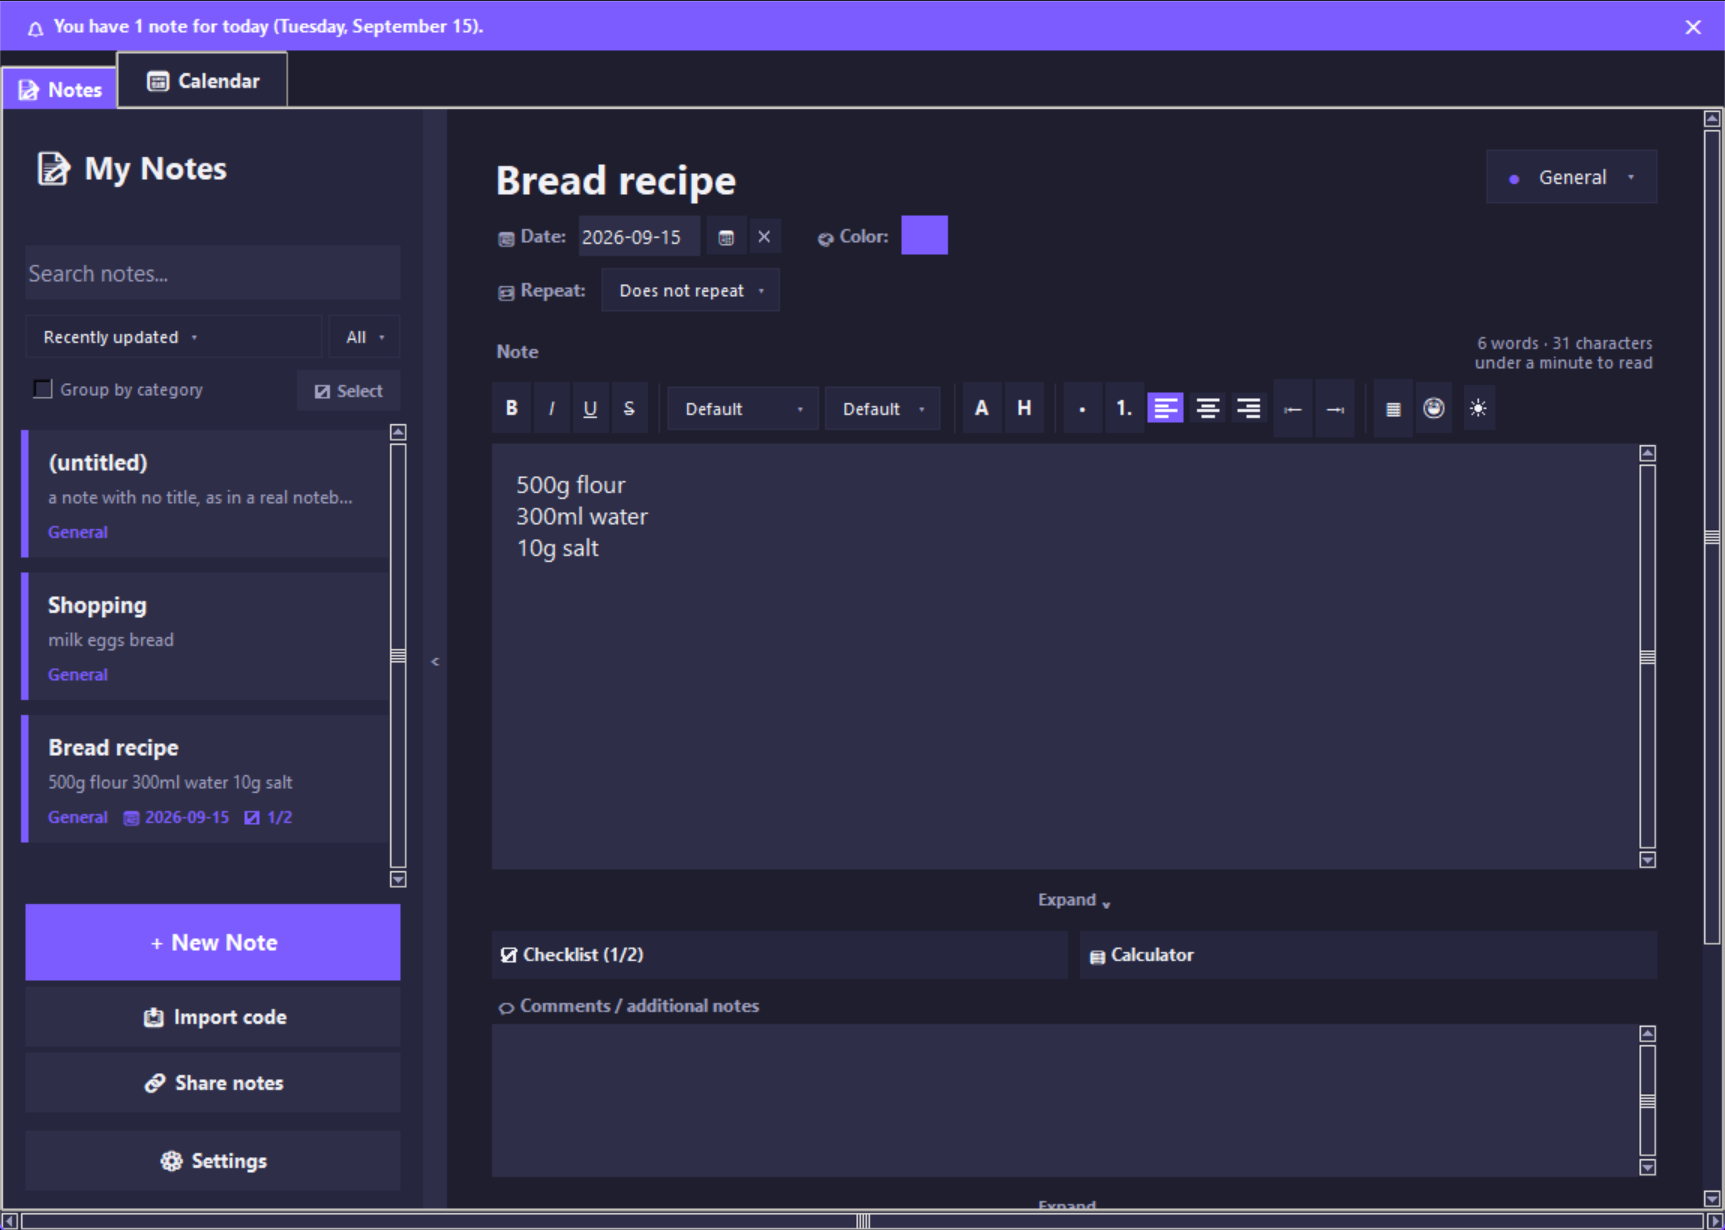
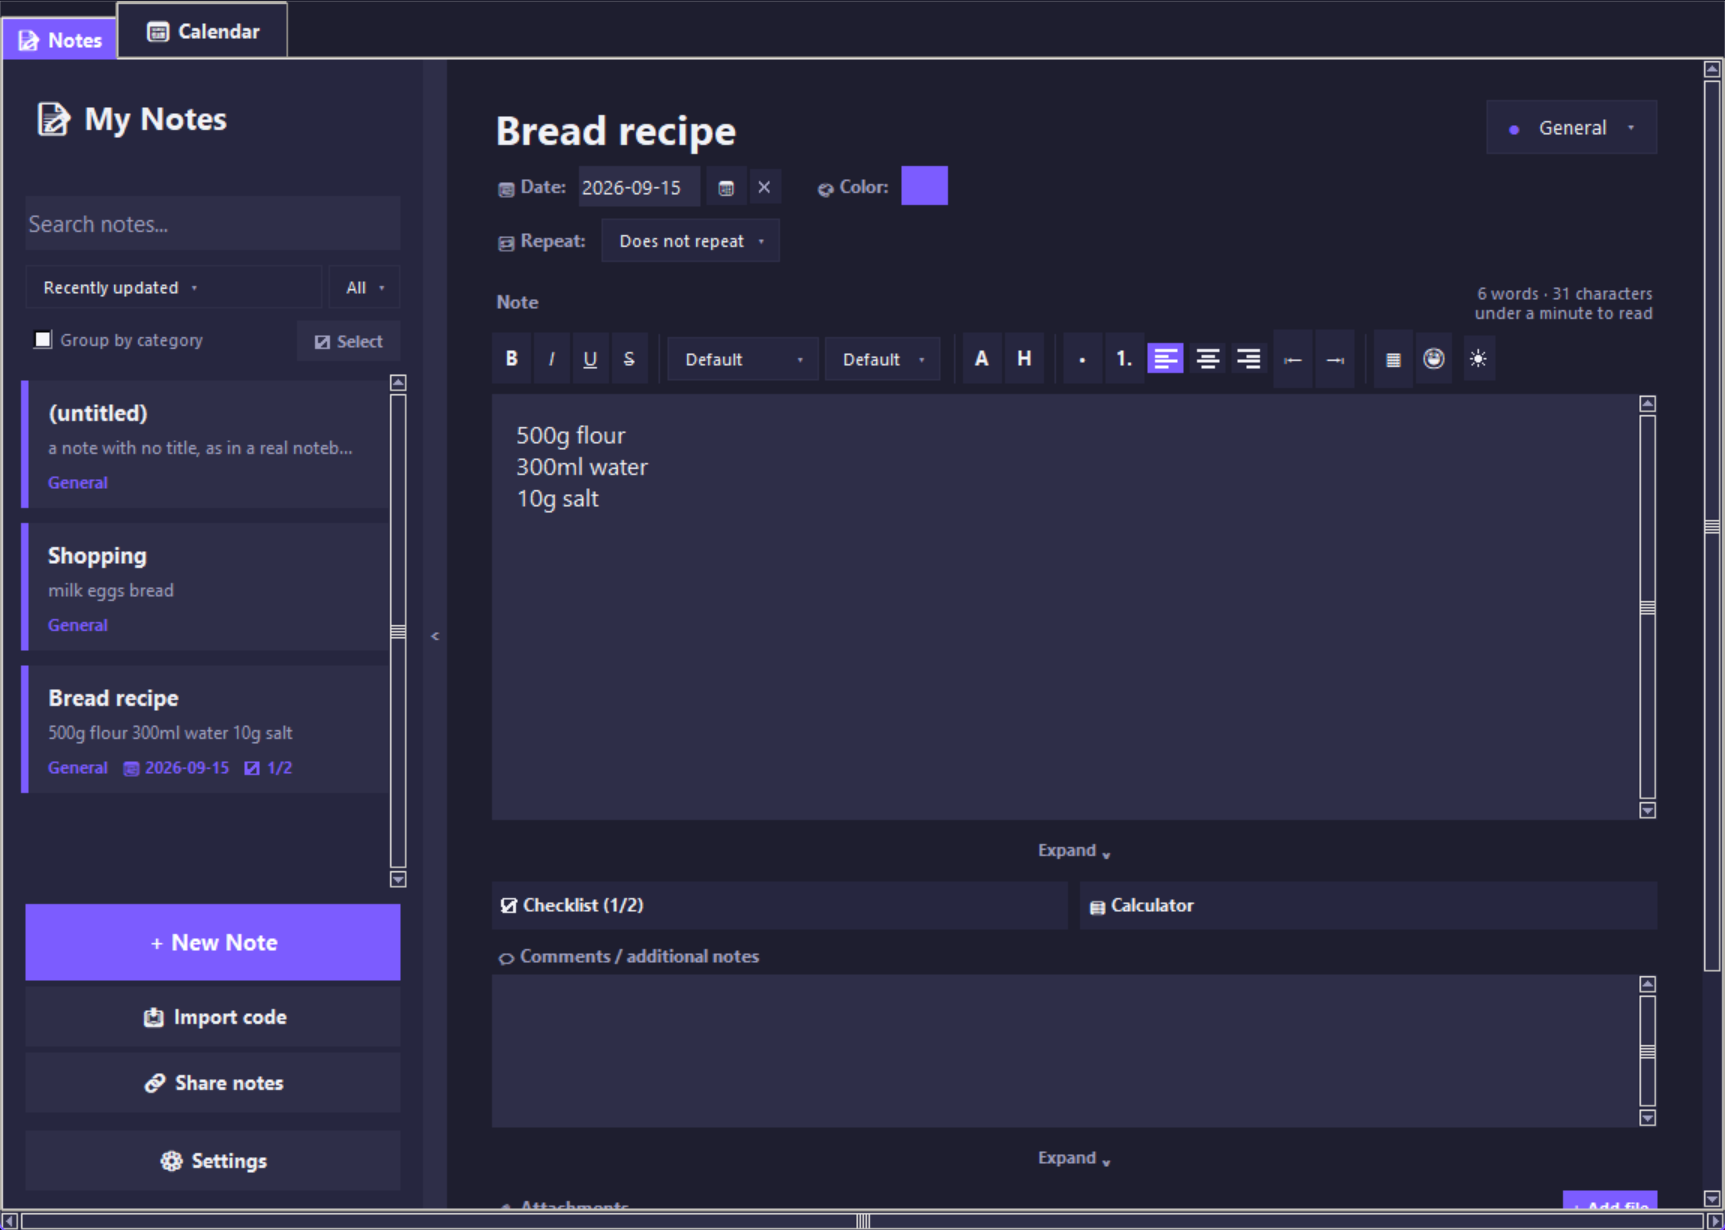
test: photograph the five screens the seven fixes changed
Five of 0.76.192's seven changes were about how something LOOKS, and not
one of the six stored screens contained any of them: the search box is
always empty in them, the template editor is never open, and no popup or
Share panel is ever on screen. So the mechanical checks passed and nobody
had looked.

FIVE NEW SCENES: the search box with a query in it (the X), the Share
panel with a code (the X and the shared sentence), the template editor
(the drawn bin and the ASCII plus, three changes in one picture), and
both colour pickers side by side (the highlight one's new title, and the
text one as its control).

WHAT LOOKING FOUND, none of which a check could have said:

1. THE SIX STORED REFERENCES WERE UNUSABLE, and not because of any code.
   They were photographed on 2026-09-15, the one day the seeded note was
   due, so they carry a "You have 1 note for today" bar the fresh shots do
   not. The window does not shift without it, it REFLOWS -- the bar's 47px
   are absorbed by the note list -- so every screen read as 15-23% changed
   with nothing wrong. The shooter now hides that bar, so what these
   pictures show no longer depends on the calendar, and all eleven are
   re-taken.

2. THE SEVEN CHANGED NOTHING THEY WERE NOT MEANT TO. Answered properly,
   by photographing 3f34218 -- the commit before them -- today, with the
   same bar suppressed, and comparing like with like: 02-editor,
   03-calendar, 04-settings-trash, 05-settings-categories and
[…]

diff --git a/qa/story_look.py b/qa/story_look.py
@@ -21,6 +21,14 @@ runs for reasons nobody controls, so a tiny difference is noise and is
 reported as such. It answers one question honestly: did a screen change
 shape while we were not looking?
 
+HOW SMALL A THING IT CANNOT SEE, measured rather than guessed. The
+comparison reduces each picture to a 40x40 grid, so one cell is about
+1/1600 of the screen -- roughly 43x31 pixels at the size these are taken.
+A control smaller than that can appear or vanish and this tool will report
+"same". Measured: adding the search box's clear button moved 0.0%. So a
+green run means no screen changed SHAPE; it does not mean no button came
+or went. For a small control, look at the picture.
+
     py qa/story_look.py            # compare against the stored shots
     py qa/story_look.py --accept   # bless what is on screen now
 
@@ -68,6 +76,65 @@ app.notebook.select(app.TAB_NOTES)
 app.set_theme(NO.LIGHT_THEMES[0])
 app.refresh_note_list()
 """),
+    # ---- The five scenes below were added for 0.76.192, because five of
+    # that release's seven changes were about how something LOOKS and none
+    # of the six scenes above contains any of them: the search box is
+    # always empty here, the template editor is never open, and no popup
+    # or Share panel is ever on screen. A check reading a widget's
+    # properties cannot see that a new button crowds the text beside it.
+    ("07-search-with-a-query", """
+app.hide_settings_page()
+app.notebook.select(app.TAB_NOTES)
+app.set_theme('Midnight')
+app.search_var.set('bread')
+app.refresh_note_list()
+"""),
+    ("08-share-panel-with-a-code", """
+app.search_var.set('')
+app.refresh_note_list()
+app.toggle_share_panel()
+# The EXISTING vars are set rather than replaced: the checkbuttons on screen
+# are bound to the ones the panel built, so a fresh BooleanVar would generate
+# a code for notes whose boxes still looked unticked -- a picture that lies
+# about what was asked for.
+app._share_vars[app.notes[0]['id']].set(True)
+app._share_vars[app.notes[1]['id']].set(True)
+app.notes[0]['attachments'] = [{'filename': 'f.txt', 'stored_as': 'x_f.txt'}]
+app._generate_inline_share()
+"""),
+    ("09-template-editor", """
+app.notes[0].pop('attachments', None)
+app.toggle_share_panel()
+app.hide_settings_page()
+app.templates.append(NO.normalize_template({
+    'name': 'Weekly review', 'title': 'Week of', 'body': 'What went well',
+    'category': 'General',
+    'checklist': [{'text': 'read last week', 'done': False},
+                  {'text': 'pick three things', 'done': False}]}))
+app.show_settings_page()
+# update() between the two, and it is load-bearing: toggle_settings_panel
+# unpacks the section that was showing by asking winfo_ismapped(), which Tk
+# answers False until it has processed the geometry. Called back to back, the
+# previous section is still packed and unmapped, the unpack loop skips it, and
+# the picture comes out with two sections stacked -- Recently deleted above a
+# nav reading Templates, which is what the first version of this shot showed.
+app.update()
+app.toggle_settings_panel('templates')
+app.update()
+app._edit_template(app.templates[-1], lambda: None)
+"""),
+    ("10-highlight-picker", """
+app._dismiss_mini_popup()
+app.hide_settings_page()
+app.notebook.select(app.TAB_NOTES)
+app.load_note(app.notes[0])
+app.body_text.tag_add('sel', '1.0', '1.10')
+app._open_color_swatch_popup('highlight')
+"""),
+    ("11-text-colour-picker", """
+app._dismiss_mini_popup()
+app._open_color_swatch_popup('text_color')
+"""),
 ]
 
 SEED = [
@@ -113,6 +180,23 @@ app.lift()
 app.attributes("-topmost", True)
 app.focus_force()
 
+# The reminder bar is packed on demand when a note is due TODAY, and the
+# seed carries a fixed date -- so on one day a year these pictures grow a
+# purple band across the top and every reference taken that day is
+# unusable on every other day. It is not a small difference either: the
+# window does not simply shift, it REFLOWS, because the 47px the bar
+# occupies are absorbed by the note list rather than pushed down. That is
+# how the stored screens came to report 20% changed with nothing wrong.
+# Kept off deliberately, so what these pictures show does not depend on
+# the calendar. The bar itself is not what this tool is for.
+def _no_reminder():
+    try:
+        app.reminder_bar.pack_forget()
+    except Exception:
+        pass
+app.after(500, _no_reminder)
+app.after(900, _no_reminder)
+
 # PowerShell's CopyFromScreen works in PHYSICAL pixels; Tk reports its
 # geometry in LOGICAL ones. On a display with any scaling the two differ,
 # and a box built from Tk's numbers lands up and to the left of the
@@ -125,12 +209,28 @@ SCALE = _Grab.grab().size[0] / float(app.winfo_screenwidth())
 scenes = json.load(io.open("scenes.json", encoding="utf-8"))
 for name, script in scenes:
     exec(script)
+    _no_reminder()          # belt and braces; see the note above
     app.update()
     app.update_idletasks()
     time.sleep(0.4)
     app.lift()
     app.attributes("-topmost", True)
+    # A scene whose subject is a POPUP would otherwise be photographed with
+    # the popup behind the window that owns it: the lift above raises the
+    # app, and an anchored Toplevel is a separate window. So whatever popup
+    # the scene opened is raised after the app, not before. Harmless when
+    # there is none, which is the other five scenes.
+    _pop = getattr(app, "_mini_popup", None)
+    if _pop is not None:
+        try:
+            if _pop.winfo_exists():
+                _pop.lift()
+                _pop.attributes("-topmost", True)
+        except tk.TclError:
+            pass
     app.update()
+    app.update_idletasks()
+    time.sleep(0.2)
     x = int(round(app.winfo_rootx() * SCALE))
     y = int(round(app.winfo_rooty() * SCALE))
     w = int(round(app.winfo_width() * SCALE))

diff --git a/qa/README.md b/qa/README.md
@@ -288,6 +288,18 @@ A new surface joins this list the moment it ships.
   a 2-second run with one unrelated failure means the suite never reached
   the line. Read the timing and the failure count, not just the absence
   of the name.
+- **`winfo_ismapped()` is False for a moment after packing, and code that
+  asks it will skip the widget you just packed.** `toggle_settings_panel`
+  hides whichever section is showing by looping over the panels and
+  unpacking the mapped one. Called straight after `show_settings_page()`
+  with no `update()` between, the previous section is packed but not yet
+  mapped, the loop skips it, and BOTH sections end up on screen — a
+  reference photograph came out with Recently deleted stacked under a nav
+  reading Templates. A person never hits this, because a click always
+  arrives after Tk has drawn. A script does. **Put an `update()` between
+  showing a thing and selecting within it**, and the same applies to any
+  check reading `winfo_ismapped` to decide what is on screen. Sibling of
+  the chip that looked clickable, in the Issues Log.
 - **A check about an ABSENCE must name the thing that would actually be
   there.** `check('the comments box is deliberately not persisted',
   'comments_expanded' not in NO.load_settings())` could never have failed:
